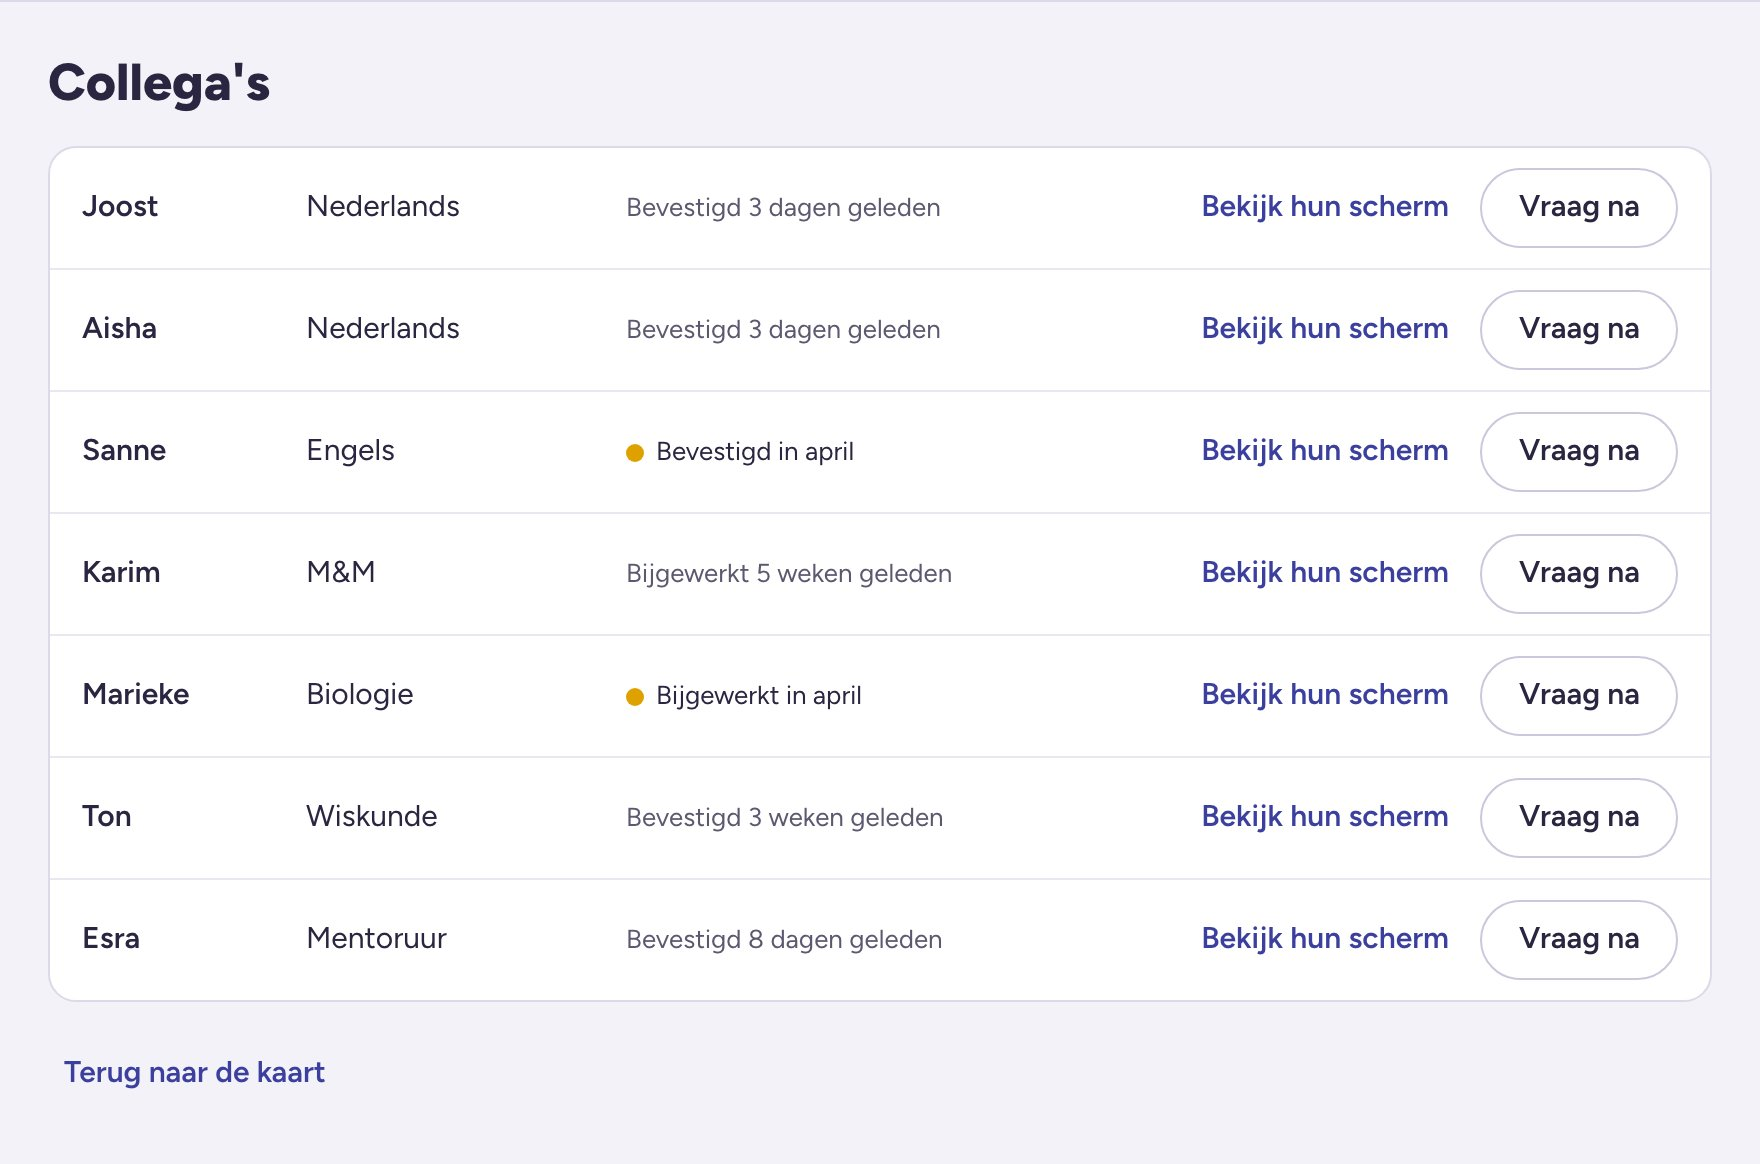
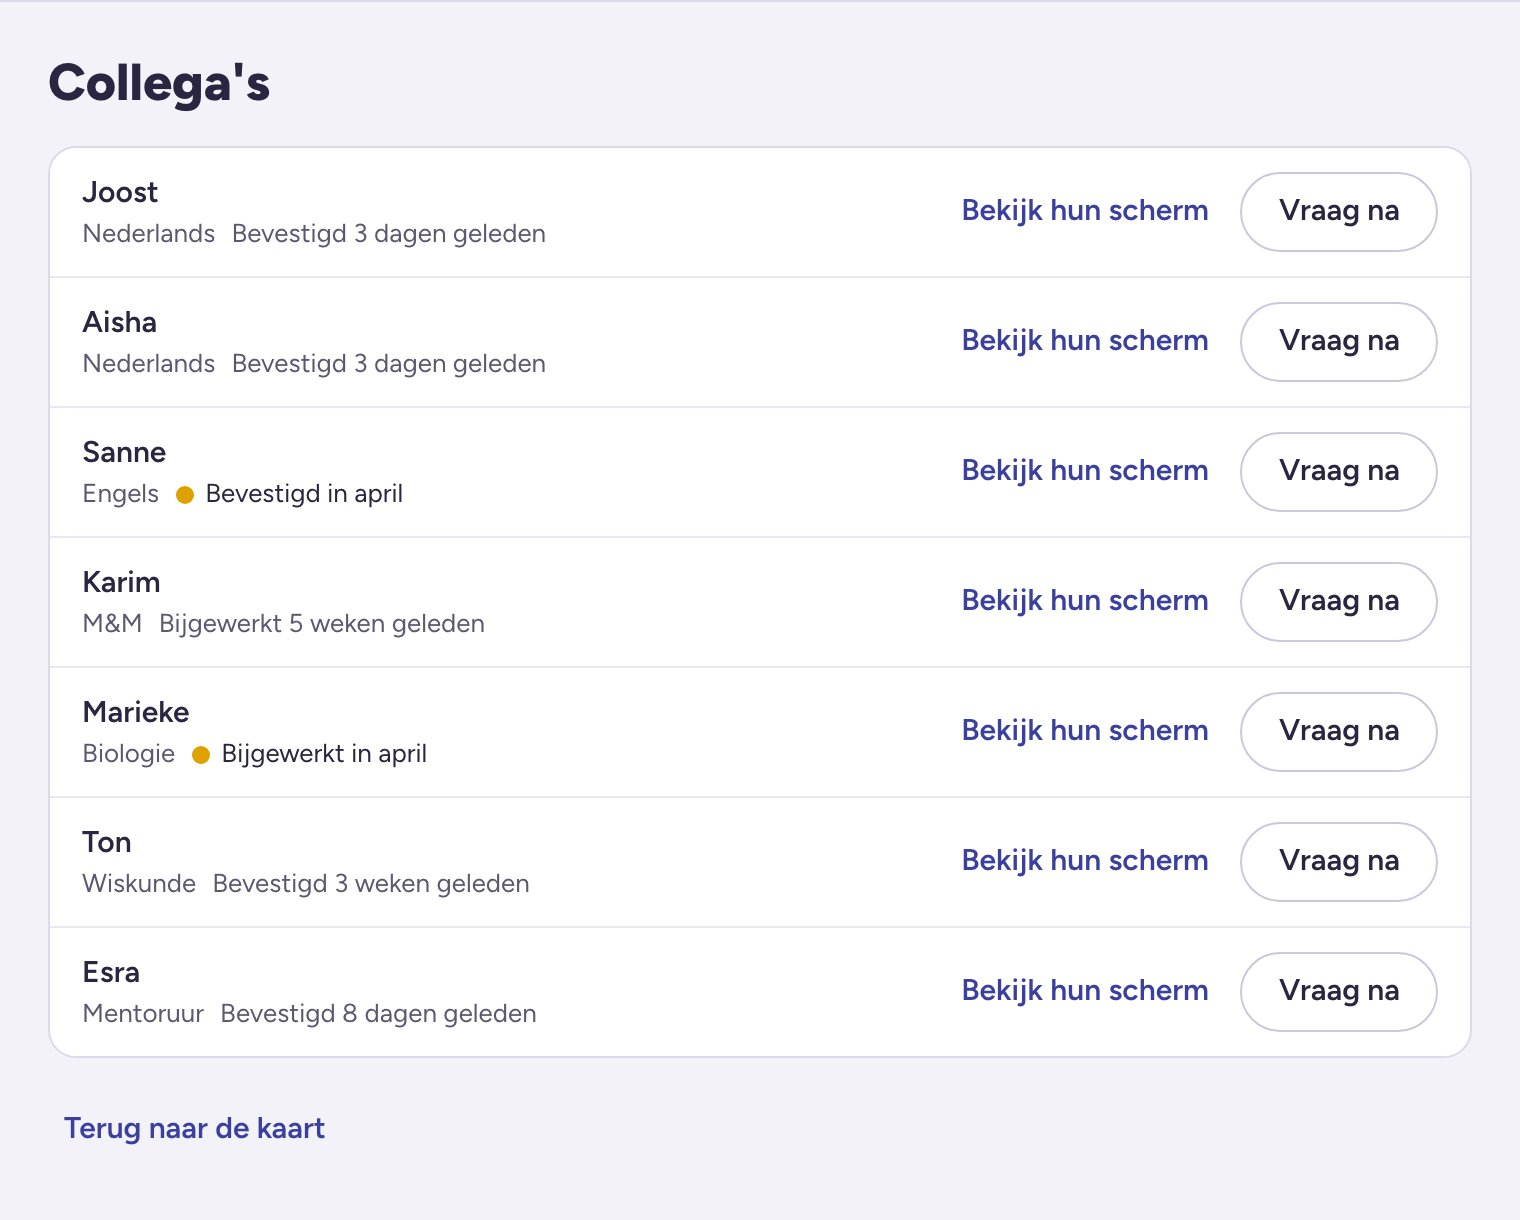
Add page width rules to the design system
Two page widths as named tokens: smal for reading, forms and lists, breed for
tables. Text fills its container, except on a breed page. Collega's rows now use
the same layout as lesson lists, so they fit the narrow width.

diff --git a/src/dekkingskaart/Collegas.tsx b/src/dekkingskaart/Collegas.tsx
@@ -7,7 +7,7 @@ export function Collegas({ laatstBijgewerkt, nagelopen, onOpen, onTerug }: { laa
   const { school, kolomVan } = useSchool();
   const [gevraagd, setGevraagd] = useState<string[]>([]);
   return (
-    <main className="mx-auto max-w-[880px] px-6 py-6">
+    <main className="mx-auto max-w-smal px-6 py-6">
       <h1 className="text-titel">Collega's</h1>
       <div className="mt-4 divide-y divide-line-soft rounded-kaart border border-line bg-surface">
         {school.docenten.map((p) => {
@@ -17,11 +17,16 @@ export function Collegas({ laatstBijgewerkt, nagelopen, onOpen, onTerug }: { laa
           const isBevestigd = !!n && (!lb || n.op >= lb);
           const datum = isBevestigd ? n!.op : lb;
           return (
-            <div key={sleutel} className="flex flex-wrap items-center gap-x-4 gap-y-1 px-4 py-2.5">
-              <span className="w-24 font-semibold">{p.naam}</span>
-              <span className="w-36">{kolomVan(p.kolom).naam}</span>
-              <Datum iso={datum} woord={isBevestigd ? "Bevestigd" : "Bijgewerkt"} leeg="Nog niets ingevuld" />
-              <div className="ml-auto flex items-center gap-2">
+            <div key={sleutel} className="flex flex-wrap items-center gap-x-4 gap-y-2 px-4 py-3">
+              {/* Zelfde opbouw als een lijstregel: titel, details eronder, acties rechts */}
+              <div className="min-w-0 flex-1 basis-[240px]">
+                <div className="font-semibold">{p.naam}</div>
+                <div className="flex flex-wrap items-center gap-x-2 text-klein text-ink-soft">
+                  <span>{kolomVan(p.kolom).naam}</span>
+                  <Datum iso={datum} woord={isBevestigd ? "Bevestigd" : "Bijgewerkt"} leeg="Nog niets ingevuld" />
+                </div>
+              </div>
+              <div className="flex shrink-0 items-center gap-2">
                 <Knop soort="stil" onClick={() => onOpen(p.kolom, p.naam)}>Bekijk hun scherm</Knop>
                 {gevraagd.includes(sleutel)
                   ? <span className="px-[18px] text-ink-soft">Gevraagd</span>

diff --git a/src/pages/Over.tsx b/src/pages/Over.tsx
@@ -9,11 +9,11 @@ const MAILTO = `mailto:${CONTACT_EMAIL}?subject=${encodeURIComponent("Helder · 
 export function Over() {
   return (
     <div className="min-h-screen">
-      <header className="mx-auto flex max-w-3xl flex-wrap items-center justify-between gap-3 px-6 py-5">
+      <header className="mx-auto flex max-w-smal flex-wrap items-center justify-between gap-3 px-6 py-5">
         <Link to="/" className="text-kop text-action">Helder</Link>
         <a href={MAILTO} className={knopKlas("tweede")}>Praat je mee?</a>
       </header>
-      <main className="mx-auto max-w-3xl px-6">
+      <main className="mx-auto max-w-smal px-6">
         <section className="grid items-center gap-8 pb-10 pt-4 sm:grid-cols-[1.45fr_1fr]">
           <div>
             <h1 className="text-titel">Hoe leren we jongeren bewust en kritisch omgaan met technologie?</h1>
@@ -63,7 +63,7 @@ export function Over() {
         </section>
       </main>
       <footer className="border-t border-line">
-        <div className="mx-auto flex max-w-3xl flex-wrap items-center justify-between gap-3 px-6 py-6 text-klein text-ink-soft">
+        <div className="mx-auto flex max-w-smal flex-wrap items-center justify-between gap-3 px-6 py-6 text-klein text-ink-soft">
           <div><span className="font-semibold text-ink">Helder</span>, een initiatief van Iris van de Kieft</div>
           <div className="flex flex-wrap items-center gap-4">
             <Link to="/dekkingskaart" className="text-action hover:text-action-deep">Dekkingskaart</Link>

diff --git a/src/dekkingskaart/Leerlijn.tsx b/src/dekkingskaart/Leerlijn.tsx
@@ -23,7 +23,7 @@ export function Leerlijn({ alles, naam, voegToe, bewerk }: {
   const kolommen: (number | null)[] = [...school.jaren, ...(onbekend ? [null] : [])];
   const rij = { gridTemplateColumns: `260px repeat(${kolommen.length}, minmax(210px, 1fr))` };
   return (
-    <main className="mx-auto max-w-[1400px] px-6 py-6">
+    <main className="mx-auto max-w-breed px-6 py-6">
       <div className="mb-4 flex flex-wrap items-center justify-between gap-4">
         <div>
           <h1 className="text-titel">Leerlijn</h1>
@@ -61,7 +61,7 @@ export function Leerlijn({ alles, naam, voegToe, bewerk }: {
 
       {open && (
         <div className="fixed inset-0 z-30 flex items-center justify-center bg-overlay p-4" onClick={() => setOpen(null)}>
-          <div role="dialog" aria-modal="true" aria-label={open.bezig ? "Les bewerken" : "Les toevoegen"} className="max-h-full w-full max-w-[600px] overflow-y-auto rounded-kaart border border-line bg-surface p-5" onClick={(e) => e.stopPropagation()}>
+          <div role="dialog" aria-modal="true" aria-label={open.bezig ? "Les bewerken" : "Les toevoegen"} className="max-h-full w-full max-w-paneel overflow-y-auto rounded-kaart border border-line bg-surface p-5" onClick={(e) => e.stopPropagation()}>
             <div className="-mb-9 -mt-1 flex justify-end"><Knop soort="stil" onClick={() => setOpen(null)}>Sluiten</Knop></div>
             <ActiviteitFormulier
               key={`${open.bezig?.id ?? "nieuw"}-${open.code}-${open.jaar}`}

diff --git a/src/pages/Product.tsx b/src/pages/Product.tsx
@@ -38,7 +38,7 @@ export function Product() {
   return (
     <div className="min-h-screen">
       <header className="sticky top-0 z-20 border-b border-line bg-surface">
-        <div className="mx-auto flex max-w-[820px] items-center gap-4 px-6 py-2.5">
+        <div className="mx-auto flex max-w-smal items-center gap-4 px-6 py-2.5">
           <Link to="/" className="text-kop text-action">Helder</Link>
           <Link to="/dekkingskaart" className={`ml-auto ${knopKlas("hoofd")}`}>
             Open het prototype
@@ -46,7 +46,7 @@ export function Product() {
         </div>
       </header>
 
-      <main className="mx-auto max-w-[820px] px-6 pb-14">
+      <main className="mx-auto max-w-smal px-6 pb-14">
         <div className="py-7">
           <h1 className="text-titel">
             Weten wat je school doet aan digitale geletterdheid.
@@ -93,7 +93,7 @@ export function Product() {
         </Blok>
 
         <Blok titel="Wat er verder in zit">
-          <ul className="max-w-none space-y-1.5">
+          <ul className="space-y-1.5">
             <li>Filteren op leerjaar, zodat je kunt zien wat er in leerjaar 1, 2 of 3 gebeurt.</li>
             <li>Elk onderdeel klapt uit naar de subdoelen, zodat je ziet welk deel ervan aan bod komt.</li>
             <li>Een leerlijn per leerjaar, met wat jullie hebben afgesproken en of het is gepland of gegeven.</li>

diff --git a/src/dekkingskaart/VakPaneel.tsx b/src/dekkingskaart/VakPaneel.tsx
@@ -30,7 +30,7 @@ export function VakPaneel({ kolom, regels, laatst, bevestigd, viaCode, naam, onS
   const sluitFormulier = () => { setBezig(null); setFormulier(false); };
   return (
     <div className="fixed inset-0 z-30 flex justify-end bg-overlay" onClick={onSluit}>
-      <aside className="flex h-full w-full max-w-[560px] flex-col border-l border-line bg-surface" onClick={(e) => e.stopPropagation()}>
+      <aside className="flex h-full w-full max-w-paneel flex-col border-l border-line bg-surface" onClick={(e) => e.stopPropagation()}>
         <div className="flex items-start justify-between gap-3 border-b border-line px-4 py-3">
           <div>
             <h2 className="text-kop">{kolom.naam}</h2>
@@ -66,7 +66,7 @@ export function VakPaneel({ kolom, regels, laatst, bevestigd, viaCode, naam, onS
                     <Knop soort="stil" onClick={() => { verwijder(a.id); if (bezig?.id === a.id) sluitFormulier(); }}>Verwijderen</Knop>
                   </>}
                 </>}>
-                  {uit && a.toelichting && <p className="mt-2 max-w-[60ch] text-ink-soft">{a.toelichting}</p>}
+                  {uit && a.toelichting && <p className="mt-2 text-ink-soft">{a.toelichting}</p>}
                 </LijstRegel>
               );
             })}

diff --git a/src/dekkingskaart/Opzet.tsx b/src/dekkingskaart/Opzet.tsx
@@ -5,9 +5,9 @@ export function Opzet({ methode, setMethode, onKlaar }: { methode: Record<string
   const { school } = useSchool();
   const metMethode = school.kolommen.filter((k) => k.methodes.length > 0);
   return (
-    <main className="mx-auto max-w-[760px] px-6 py-8">
+    <main className="mx-auto max-w-smal px-6 py-8">
       <h1 className="text-titel">Welke methodes gebruiken jullie?</h1>
-      <p className="mt-2 max-w-[60ch]">
+      <p className="mt-2">
         Dit vult alvast een deel van de kaart. Het is niet verplicht: je kunt overslaan en meteen zelf invullen wat er in de lessen gebeurt.
       </p>
       <div className="mt-5 divide-y divide-line-soft rounded-kaart border border-line bg-surface">
@@ -25,7 +25,7 @@ export function Opzet({ methode, setMethode, onKlaar }: { methode: Record<string
         <Knop onClick={onKlaar}>Naar de kaart</Knop>
         <Knop soort="stil" onClick={onKlaar}>Overslaan</Knop>
       </div>
-      {school.opzetNotitie && <p className="mt-4 max-w-[62ch] text-legenda text-ink-soft">{school.opzetNotitie}</p>}
+      {school.opzetNotitie && <p className="mt-4 text-legenda text-ink-soft">{school.opzetNotitie}</p>}
     </main>
   );
 }

diff --git a/src/pages/Dekkingskaart.tsx b/src/pages/Dekkingskaart.tsx
@@ -32,7 +32,7 @@ export function Dekkingskaart() {
   if (!school) {
     return (
       <div className="min-h-screen">
-        <main className="mx-auto max-w-[760px] px-6 py-16">
+        <main className="mx-auto max-w-smal px-6 py-16">
           <h1 className="text-titel">Deze school bestaat hier niet</h1>
           <p className="mt-2"><a href="/dekkingskaart" className="font-semibold text-action hover:text-action-deep">Naar het voorbeeld</a></p>
         </main>
@@ -130,7 +130,7 @@ function TopBar({ scherm, setScherm }: { scherm: Scherm; setScherm: (s: Scherm) 
   const tabs = [["kaart", "Kaart"], ["leerlijn", "Leerlijn"], ["uitnodigen", "Collega's"], ["docent", "Mijn vak"]] as const;
   return (
     <header className="sticky top-0 z-20 border-b border-line bg-surface">
-      <div className="mx-auto flex max-w-[1400px] flex-wrap items-center gap-x-8 gap-y-2 px-6 py-2.5">
+      <div className="mx-auto flex max-w-breed flex-wrap items-center gap-x-8 gap-y-2 px-6 py-2.5">
         <span className="text-kop text-action">Helder</span>
         {scherm !== "opzet" && (
           <nav className="flex flex-wrap gap-1" aria-label="Hoofdmenu">

diff --git a/src/dekkingskaart/Kaart.tsx b/src/dekkingskaart/Kaart.tsx
@@ -60,7 +60,7 @@ export function Kaart({ alles, laatstBijgewerkt, nagelopen, naam, voegToe, bewer
   });
 
   return (
-    <main className="mx-auto max-w-[1400px] px-6 py-6">
+    <main className="mx-auto max-w-breed px-6 py-6">
       <div className="mb-4 flex flex-wrap items-center justify-between gap-4">
         <h1 className="text-titel">Kerndoelen per {school.kolomLabel}</h1>
         <div className="flex flex-wrap items-center gap-2">
@@ -149,7 +149,7 @@ export function Kaart({ alles, laatstBijgewerkt, nagelopen, naam, voegToe, bewer
         <span className="inline-flex items-center gap-2"><span className="inline-block h-3.5 w-3.5 border border-line bg-surface" /> Leeg en bevestigd: hier gebeurt niets</span>
       </div>
       {onbekendJaar && (
-        <p className="mt-2 max-w-[72ch] text-legenda text-ink-soft">
+        <p className="mt-2 max-w-regel text-legenda text-ink-soft">
           Van sommige methode-onderdelen is niet bekend in {welkJaar} ze vallen. Die blijven daarom bij {elkJaar} staan.
         </p>
       )}

diff --git a/tailwind.config.js b/tailwind.config.js
@@ -26,6 +26,14 @@ export default {
         legenda: ['14px', '1.45'],
         klein: ['13px', '1.4'],
       },
+      // Two page widths: smal for reading, forms and lists, breed for tables.
+      // Text fills its container; regel only caps text on a breed page.
+      maxWidth: {
+        smal: '760px',
+        breed: '1400px',
+        paneel: '560px',
+        regel: '72ch',
+      },
       boxShadow: {
         m: '0 10px 28px -10px rgba(42,37,64,0.14)',
       },

diff --git a/src/dekkingskaart/DocentModus.tsx b/src/dekkingskaart/DocentModus.tsx
@@ -38,7 +38,7 @@ export function DocentModus({ kolom, methode, regels, naam, nagelopen, setKolom,
   };
 
   return (
-    <main className="mx-auto max-w-[760px] px-6 py-6">
+    <main className="mx-auto max-w-smal px-6 py-6">
       <div className="flex flex-wrap items-center justify-between gap-3">
         <h1 className="text-titel">{kolom.naam}</h1>
         <div className="w-56">
